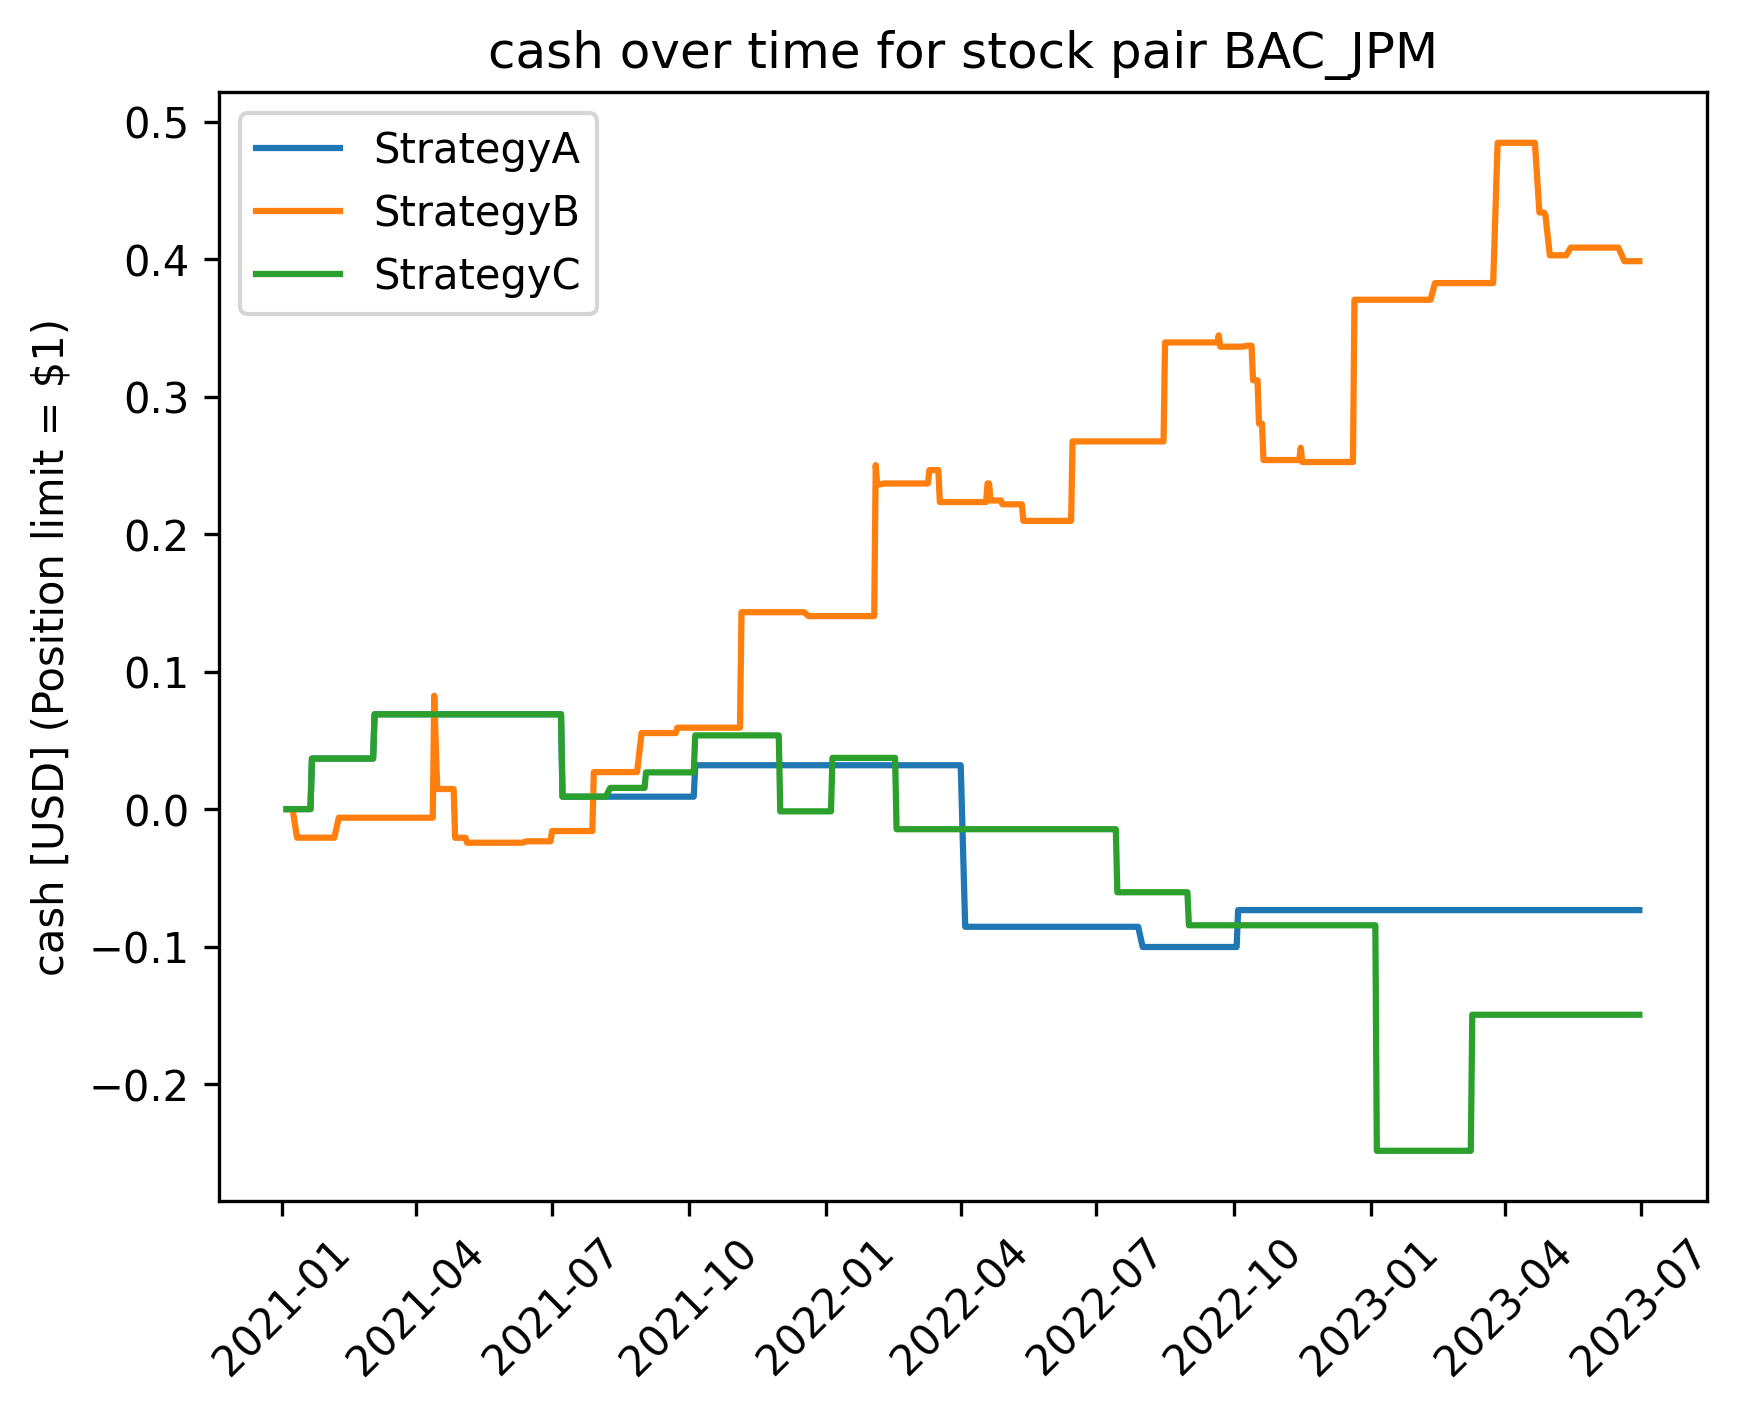
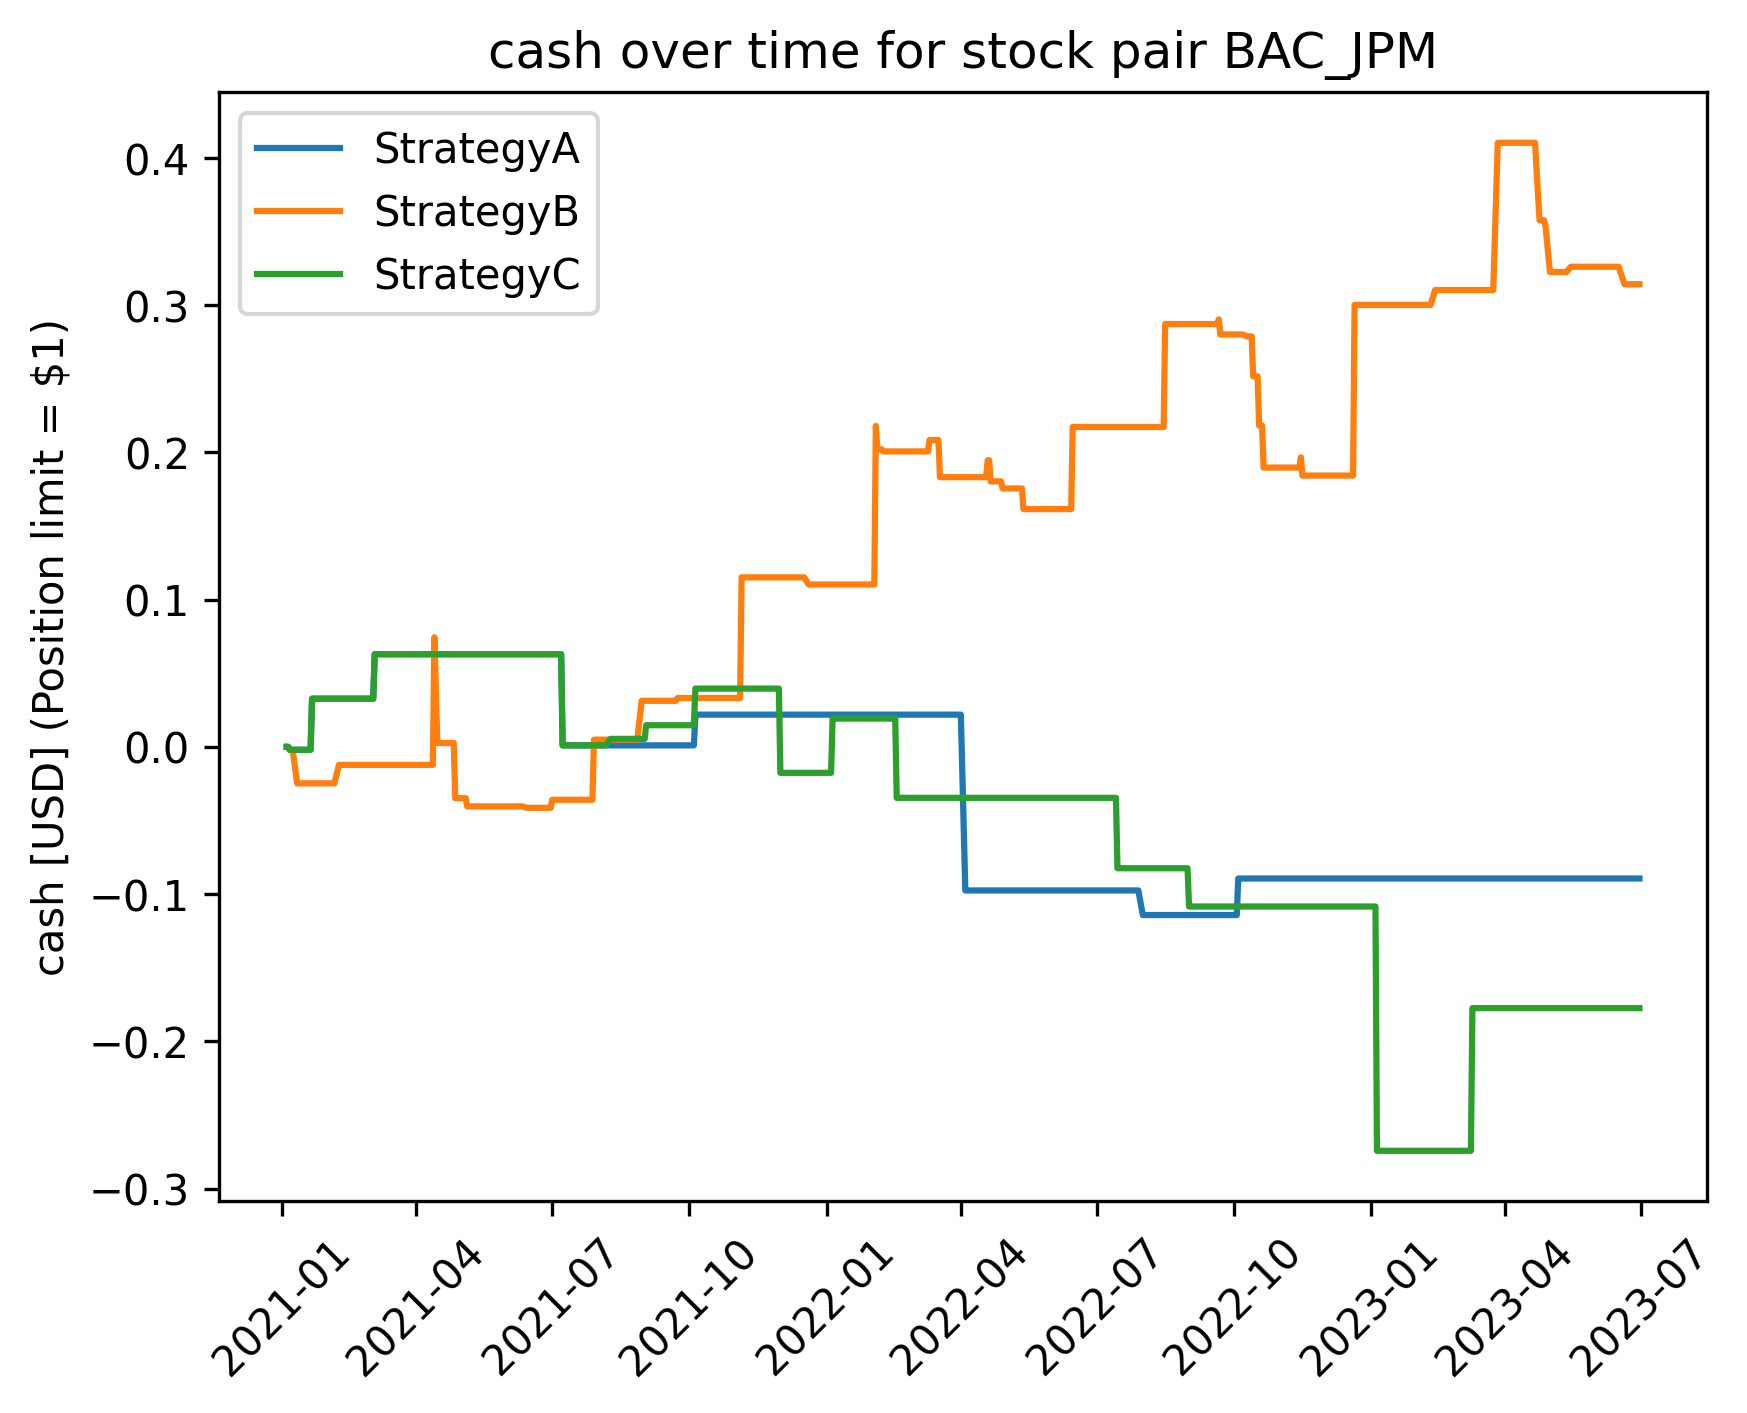
Added transaction fees to the code.

diff --git a/pairs_trading_oaf/trading.py b/pairs_trading_oaf/trading.py
@@ -29,33 +29,44 @@ def execute_trades(pair_portfolio, new_position):
         close_position(pair_portfolio)
         open_position(pair_portfolio, new_position)
 
+def calculate_transaction_fee(trade_amount, trading_fee=0.0):
+    """
+    Calculate the transaction fee based on the trade amount.
+    Fee is 0.1% of the trade amount.
+    """
+    return trade_amount * trading_fee
+
 def close_position(pair_portfolio):
     """
-    Close the current position. This is done by selling/buying all shares of stock A and stock B
-    until we own no shares of either stock.
+    Close the current position.
     """
-    pair_portfolio.cash = pair_portfolio.cash \
-                        + pair_portfolio.shares[0] * pair_portfolio.stock_pair_prices[0] \
-                        + pair_portfolio.shares[1] * pair_portfolio.stock_pair_prices[1]
+    total_value = pair_portfolio.shares[0] * pair_portfolio.stock_pair_prices[0] \
+                + pair_portfolio.shares[1] * pair_portfolio.stock_pair_prices[1]
+    transaction_fee = calculate_transaction_fee(total_value, trading_fee=pair_portfolio.trading_fee)
+    pair_portfolio.cash = pair_portfolio.cash + total_value - transaction_fee
     pair_portfolio.shares = (0, 0)
 
 def open_position(pair_portfolio, new_position):
     """
-    Open a new position. This is done by buying/selling all shares of stock A and stock B until
-    we own/short the maximum number of shares of each stock.
-
-    Note that we allow for the possibility of owning a fraction of a share of a stock.
+    Open a new position.
     """
     pair_portfolio.position = new_position
     if new_position == "no position":
         close_position(pair_portfolio)
-    elif new_position == "long A short B":
-        pair_portfolio.shares = (+pair_portfolio.position_limit /
-                                  pair_portfolio.stock_pair_prices[0],
-                                 -pair_portfolio.position_limit /
-                                  pair_portfolio.stock_pair_prices[1])
-    elif new_position == "long B short A":
-        pair_portfolio.shares = (-pair_portfolio.position_limit /
-                                  pair_portfolio.stock_pair_prices[0],
-                                 +pair_portfolio.position_limit /
-                                  pair_portfolio.stock_pair_prices[1])
+    else:
+        if new_position == "long A short B":
+            shares_to_trade = (+pair_portfolio.position_limit /
+                               pair_portfolio.stock_pair_prices[0],
+                               -pair_portfolio.position_limit /
+                               pair_portfolio.stock_pair_prices[1])
+        elif new_position == "long B short A":
+            shares_to_trade = (-pair_portfolio.position_limit /
+                               pair_portfolio.stock_pair_prices[0],
+                               +pair_portfolio.position_limit /
+                               pair_portfolio.stock_pair_prices[1])
+        
+        total_value = abs(shares_to_trade[0]) * pair_portfolio.stock_pair_prices[0] \
+                    + abs(shares_to_trade[1]) * pair_portfolio.stock_pair_prices[1]
+        transaction_fee = calculate_transaction_fee(total_value, trading_fee=pair_portfolio.trading_fee)
+        pair_portfolio.cash -= transaction_fee
+        pair_portfolio.shares = shares_to_trade

diff --git a/tests/test_trading.py b/tests/test_trading.py
@@ -176,3 +176,33 @@ def test_open_position(master_portfolio):
     # Test "no position"
     trading.open_position(pair_portfolio, "no position")
     assert pair_portfolio.shares == (0, 0)
+
+def test_close_position_with_transaction_fee(master_portfolio):
+    """
+    Test the close_position function with transaction fee.
+    """
+    # Setup
+    pair_portfolio = portfolio.PairPortfolio(('StockA', 'StockB'), MockStrategy, master_portfolio)
+    pair_portfolio.shares = (10, -5)
+    pair_portfolio.stock_pair_prices = (100, 200)
+    pair_portfolio.cash = 1000
+    pair_portfolio.trading_fee = 0.001
+
+    # Action
+    trading.close_position(pair_portfolio)
+
+    # Assertions
+    total_trade_value = 10 * 100 + (-5) * 200
+    transaction_fee = trading.calculate_transaction_fee(total_trade_value, pair_portfolio.trading_fee)
+    expected_cash = 1000 + total_trade_value - transaction_fee
+    assert pair_portfolio.cash == pytest.approx(expected_cash)
+    assert pair_portfolio.shares == (0, 0)
+
+def test_calculate_transaction_fee():
+    """
+    Test the calculate_transaction_fee function.
+    """
+    trade_amount = 1000
+    trading_fee = 0.001
+    expected_fee = 1
+    assert trading.calculate_transaction_fee(trade_amount, trading_fee) == expected_fee

diff --git a/pairs_trading_oaf/main.py b/pairs_trading_oaf/main.py
@@ -20,6 +20,7 @@ tic = time.perf_counter()
 TRAINING_DATA_FNAME = "Price Data - CSV - Formation Period.csv"
 TESTING_DATA_FNAME = "Price Data - CSV - Trading Period.csv"
 POSITION_LIMIT = int(1e0)
+TRADING_FEE = 0.001
 
 stock_pair_labels_list = [
     ("Microsoft Corporation (NasdaqGS:MSFT)", "Apple Inc. (NasdaqGS:AAPL)"),
@@ -36,7 +37,8 @@ stock_pair_labels_list = [
 
 master_portfolio = portfolio.MasterPortfolio(POSITION_LIMIT,
                                              TRAINING_DATA_FNAME,
-                                             TESTING_DATA_FNAME)
+                                             TESTING_DATA_FNAME,
+                                             trading_fee=TRADING_FEE)
 for StrategyClass in [strategies.StrategyA, strategies.StrategyB, strategies.StrategyC]:
     for stock_pair_labels in stock_pair_labels_list:
         pair_portfolio = \

diff --git a/pairs_trading_oaf/portfolio.py b/pairs_trading_oaf/portfolio.py
@@ -17,10 +17,12 @@ class MasterPortfolio:
     window is greater than the trading start date. The testing data is used to execute
     trades.
     """
-    def __init__(self, position_limit: int, training_data_str: str, testing_data_str: str):
+    def __init__(self, position_limit: int, training_data_str: str, testing_data_str: str,
+                 trading_fee: float = 0.0):
         self.position_limit = position_limit
         self.training_data_str = training_data_str
         self.testing_data_str = testing_data_str
+        self.trading_fee = trading_fee
         self.pair_portfolios = []
         self.average_pertofolio_value_over_time = None
         self.strategy_strings = None
